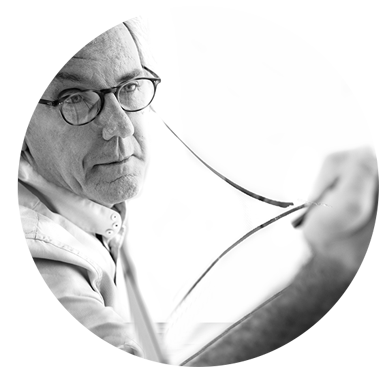
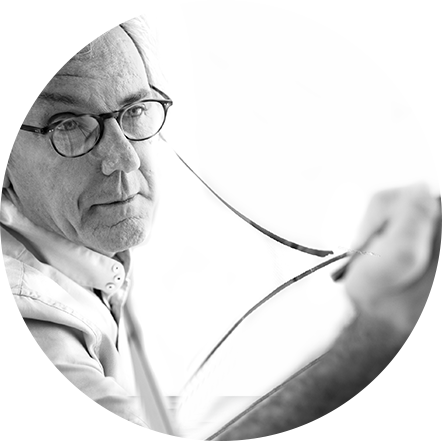
Fix designer layout

diff --git a/main.css b/main.css
@@ -772,18 +772,19 @@ sup {
 
 #designerprofile-section .yacht {
   background-image: url("images/designerprofile-section/bg.jpg");
-  padding-bottom: 756px; }
+  padding-bottom: 666px; }
   @media only screen and (max-width: 720px) {
     #designerprofile-section .yacht {
       padding-bottom: 70%; } }
 
 #designerprofile-section .description-grey-box {
   position: relative;
-  margin: 0 50px;
-  margin-top: -135px;
+  margin: 0 52px;
+  margin-top: -46px;
   background-color: #dfdfe1;
   overflow: visible;
-  min-height: 750px; }
+  min-height: 446px;
+  margin-bottom: 82px; }
   @media only screen and (max-width: 720px) {
     #designerprofile-section .description-grey-box {
       min-height: initial;
@@ -797,12 +798,12 @@ sup {
 #designerprofile-section .profile-blue-box {
   float: left;
   color: #dfdfe1;
-  margin-left: 70px;
-  margin-top: -90px;
-  width: 465px;
-  height: 735px;
+  margin-left: 30px;
+  margin-top: -117px;
+  width: 337px;
+  height: 516px;
   align-content: center;
-  padding: 40px;
+  padding: 60px;
   text-align: center; }
   @media only screen and (max-width: 720px) {
     #designerprofile-section .profile-blue-box {
@@ -813,7 +814,7 @@ sup {
       width: 100%; } }
   #designerprofile-section .profile-blue-box .white-line {
     margin: 15px 0;
-    left: -120px;
+    left: -200px;
     width: 441px; }
     @media only screen and (max-width: 720px) {
       #designerprofile-section .profile-blue-box .white-line {
@@ -842,14 +843,19 @@ sup {
         font-size: 17px;
         line-height: 17px;
         font-weight: bold; } }
-    #designerprofile-section .profile-blue-box .designer-info .designer-name {
-      text-transform: uppercase; }
+  #designerprofile-section .profile-blue-box .name {
+    text-transform: uppercase; }
 
 #designerprofile-section .designer-photo {
-  background-image: url("images/designerprofile-section/designer.png"); }
+  background-image: url("images/designerprofile-section/designer.png");
+  height: 221px;
+  margin-top: 21px;
+  margin-bottom: 31px; }
   @media only screen and (min-width: 721px) and (max-width: 1199px) {
     #designerprofile-section .designer-photo {
-      height: 270px; } }
+      height: 180px;
+      margin-top: 15;
+      margin-bottom: 15; } }
   @media only screen and (max-width: 720px) {
     #designerprofile-section .designer-photo {
       padding-bottom: calc(120px + 20%);
@@ -857,8 +863,9 @@ sup {
 
 #designerprofile-section .designer-description-text {
   float: right;
-  width: calc(100% - 465px - 70px);
-  padding: 100px 65px;
+  width: calc(100% - 337px - 30px);
+  padding: 88px 80px;
+  padding-left: 55px;
   padding-bottom: 170px;
   vertical-align: top;
   position: relative; }
@@ -897,11 +904,11 @@ sup {
 
 #designerprofile-section .next-prev-wheelbutton {
   background: black;
-  width: 150px;
-  height: 150px;
+  width: 100px;
+  height: 100px;
   position: absolute;
-  bottom: 55px;
-  right: -35px; }
+  bottom: -33px;
+  right: -25px; }
   @media only screen and (max-width: 720px) {
     #designerprofile-section .next-prev-wheelbutton {
       display: none; } }

diff --git a/scss/sections/designerprofile-section.scss b/scss/sections/designerprofile-section.scss
@@ -1,17 +1,17 @@
 #designerprofile-section {
   // default variable
-  $yacht-height: 756px;
-  $yacht-greybox-gutter: 135px;
+  $yacht-height: 666px;
+  $yacht-greybox-gutter: 46px;
 
-  $greybox-horizontal-gutter: 50px;
-  $greybox-bluebox-offset-x: 70px;
-  $greybox-bluebox-offset-y: -90px;
+  $greybox-horizontal-gutter: 52px;
+  $greybox-bluebox-offset-x: 30px;
+  $greybox-bluebox-offset-y: -117px;
 
-  $bluebox-width: 465px;
-  $bluebox-height: 735px;
+  $bluebox-width: 337px;
+  $bluebox-height: 516px;
 
-  $next-prev-height: 150px;
-  $next-prev-width: 150px;
+  $next-prev-height: 100px;
+  $next-prev-width: 100px;
 
   // mobile
   $yacht-height-mobile: 70%;
@@ -43,7 +43,8 @@
     margin-top: -$yacht-greybox-gutter;
     background-color: $light-gray;
     overflow: visible;
-    min-height: 750px;
+    min-height: 446px;
+    margin-bottom: 82px;
 
     @include responsive(mobile) {
       min-height: initial;
@@ -67,7 +68,7 @@
     width: $bluebox-width;
     height: $bluebox-height;
     align-content: center;
-    padding: 40px;
+    padding: 60px;
     text-align: center;
 
     @include responsive(mobile) {
@@ -80,7 +81,7 @@
 
     .white-line {
       margin: 15px 0;
-      left: -120px;
+      left: -200px;
       width: 441px;
       @include responsive(mobile) {
         margin: 10px auto;
@@ -115,18 +116,23 @@
         line-height: 17px;
         font-weight: bold;
       }
+    }
 
-      .designer-name {
-        text-transform: uppercase;
-      }
+    .name {
+      text-transform: uppercase;
     }
   }
 
   .designer-photo {
     @extend .background-contain;
     background-image: url("images/designerprofile-section/designer.png");
+    height: 221px;
+    margin-top: 21px;
+    margin-bottom: 31px;
     @include responsive(transition) {
-      height: 270px;
+      height: 180px;
+      margin-top: 15;
+      margin-bottom: 15;
     }
     @include responsive(mobile) {
       padding-bottom: calc(120px + 20%);
@@ -137,7 +143,8 @@
   .designer-description-text {
     float: right;
     width: calc(100% - #{$bluebox-width} - #{$greybox-bluebox-offset-x});
-    padding: 100px 65px;
+    padding: 88px 80px;
+    padding-left: 55px;
     padding-bottom: 170px;
     vertical-align: top;
     position: relative;
@@ -205,8 +212,8 @@
     width: $next-prev-width;
     height: $next-prev-height;
     position: absolute;
-    bottom: $next-prev-width - 95px;
-    right: $next-prev-width - 185px;
+    bottom: $next-prev-width - 133px;
+    right: $next-prev-width - 125px;
     @include responsive(mobile) {
       display: none;
       // right: auto;

diff --git a/index.html b/index.html
@@ -149,7 +149,7 @@
           <div class="profile-blue-box">
             <div class="designer-title">clubhouse <br> designer</div>
             <div class="designer-photo"></div>
-            <div class="designer-info designer-name">Philippe Briand</div>
+            <div class="designer-info name">Philippe Briand</div>
             <div class="white-line"></div>
             <div class="designer-info">
               Vitruvius Yachts Ltd

diff --git a/scss/sections/register-section.scss b/scss/sections/register-section.scss
@@ -18,11 +18,6 @@
     margin-top: 10px;
     margin-bottom: 10px;
 
-    // @include responsive(transition){
-    //     line-height: 35px;
-    //     font-size: 22px;
-    // }
-
     @include responsive(mobile){
       line-height: 30px;
       font-size: 15px;
